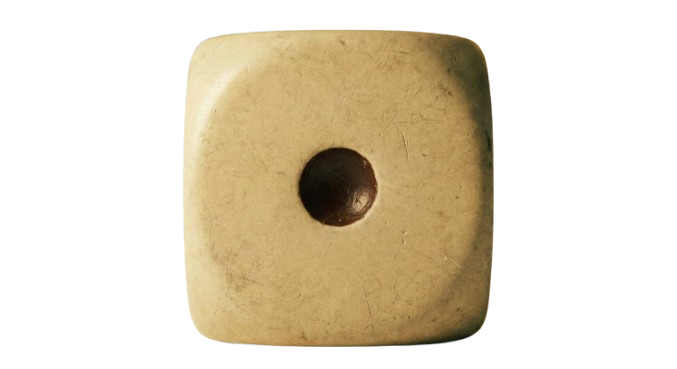
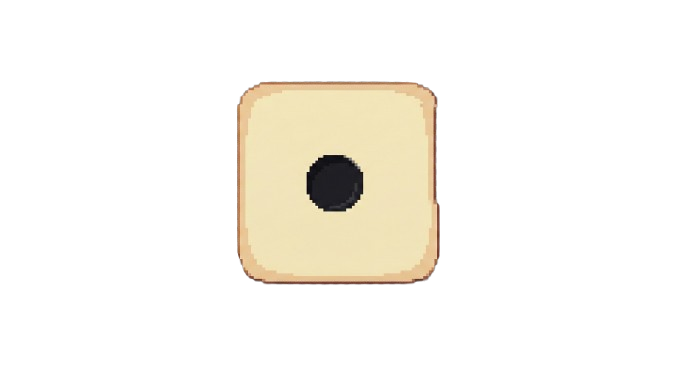
Implemented texture loading function

diff --git a/src/dice_roll.c b/src/dice_roll.c
@@ -1,58 +1,125 @@
 #include <math.h>
 #include <string.h> 
 #include <stdbool.h>
+#include <stdlib.h>
+#include <dirent.h>
+#include <sys/types.h>
+#include <sys/stat.h>
+#include <unistd.h>
 
 #include "raylib.h"
 #define RAYGUI_IMPLEMENTATION
 #include "raygui.h"
 
+
+Texture2D* load_dice_sides(const char* director);
+void unload_dice_sides(Texture2D* dices);
+void draw_layout(void);
+
+
+float dice_count = 0;
+bool auto_roll = false;
+
+
 int main(void)
 {
 	Image icon = LoadImage("asserts/icon.png");
-	Font font = LoadFont("asserts/Lato-Bold");
+	Font font = LoadFont("asserts/Lato-Bold.ttf");
+
 	InitWindow(1280, 720, "Distribution Vizualizer");
+	Texture2D* dice_sides = load_dice_sides("asserts/Dice Sides");
+	
+	Vector2 dice_image_position[6] = {{-10, 40}, {120, 40}, {460, 40}, {500, 40}, {520, 40}, {1500, 40}};
 
 	SetWindowIcon(icon);
 	SetTargetFPS(60);
 	GuiSetStyle(DEFAULT, TEXT_SIZE, 18);
 
 
-	float dice_count = 0;
-	bool auto_roll = false;
 
 	while(!WindowShouldClose())
 	{
-		BeginDrawing();
-			ClearBackground((Color){20, 20, 20, 255});
-			DrawText("The Statistics of Rolling a Dice", 420, 20, 20, LIGHTGRAY);
-			//DrawRectangleLines(20, 50, 1240, 200, DARKGRAY);
-
-			GuiGroupBox((Rectangle){20, 60, 1240, 180}, "Dice");
-			GuiGroupBox((Rectangle){20, 260, 920, 440}, "Distribution");
-
-			GuiGroupBox((Rectangle){960, 260, 300, 440}, "Controls");
-			DrawText("Number of Dice", 1000, 280, 20, LIGHTGRAY);
-							
-			GuiSlider((Rectangle){ 1000, 360, 220, 20 }, "", NULL, &dice_count, 1.0f, 6.0f);
-			DrawText(TextFormat("%i", (int)round(dice_count)), 1000, 320, 20, LIGHTGRAY);
-
-			GuiSetStyle(BUTTON, TEXT_COLOR_NORMAL, ColorToInt(BLACK));
-			GuiSetStyle(BUTTON, TEXT_COLOR_FOCUSED, ColorToInt(LIGHTGRAY));
-			GuiButton((Rectangle){ 1000, 400, 220, 60 }, "ROLL");
-
-			DrawText("Roll automatically",1000, 480, 18, LIGHTGRAY);
-			GuiCheckBox((Rectangle){ 1000, 520, 20, 20 }, "", &auto_roll);
-
-            		//GuiSlider((Rectangle){ 150, 610, 200, 20 }, "High Freq", NULL, &frequency2, 10.0f, 100.0f);
-            
-            		//GuiSlider((Rectangle){ 600, 580, 200, 20 }, "Amplitude", NULL, &amplitude1, 0.1f, 2.0f);
-            	//	GuiSlider((Rectangle){ 600, 610, 200, 20 }, "Noise Level", NULL, &noiseLevel, 0.0f, 2.0f);
+	 	BeginDrawing();
+			DrawTextureEx(dice_sides[0], dice_image_position[0],0, 0.6f, WHITE);
+			DrawTextureEx(dice_sides[1], dice_image_position[1],0, 0.6f, WHITE);
+			DrawTextureEx(dice_sides[2], dice_image_position[2],0, 0.6f, WHITE);
+                        DrawTextureEx(dice_sides[3], dice_image_position[3],0, 0.6f, WHITE);
+                        DrawTextureEx(dice_sides[4], dice_image_position[4],0, 0.6f, WHITE);
+                        DrawTextureEx(dice_sides[5], dice_image_position[5],0, 0.6f, WHITE);
+               		draw_layout();
 
 		EndDrawing();
 
 	}
+	unload_dice_sides(dice_sides);	
 	CloseWindow();
 	UnloadImage(icon);
 	UnloadFont(font);
 	return 0;
+}
+
+void draw_layout(void)
+{
+	ClearBackground((Color){20, 20, 20, 255});
+	DrawText("The Statistics of Rolling a Dice", 420, 20, 20, LIGHTGRAY);
+
+	GuiGroupBox((Rectangle){20, 60, 1240, 180}, "Dice");
+	GuiGroupBox((Rectangle){20, 260, 920, 440}, "Distribution");
+
+	GuiGroupBox((Rectangle){960, 260, 300, 440}, "Controls");
+	DrawText("Number of Dice", 1000, 280, 20, LIGHTGRAY);
+							
+	GuiSlider((Rectangle){ 1000, 360, 220, 20 }, "", NULL, &dice_count, 1.0f, 6.0f);
+	DrawText(TextFormat("%i", (int)round(dice_count)), 1000, 320, 20, LIGHTGRAY);
+
+	GuiSetStyle(BUTTON, TEXT_COLOR_NORMAL, ColorToInt(BLACK));
+	GuiSetStyle(BUTTON, TEXT_COLOR_FOCUSED, ColorToInt(LIGHTGRAY));
+	GuiButton((Rectangle){ 1000, 400, 220, 60 }, "ROLL");
+
+	DrawText("Roll automatically",1000, 480, 18, LIGHTGRAY);
+	GuiCheckBox((Rectangle){ 1000, 520, 20, 20 }, "", &auto_roll);
+
+}
+
+Texture2D* load_dice_sides(const char* dir)
+{
+	Texture2D* dice = malloc(sizeof(Texture2D)*6);
+	if(dice == NULL)
+	{
+		fprintf(stderr, "Memory Allocation failed");
+		exit(EXIT_FAILURE);
+	}
+	
+	if (chdir(dir) != 0) 
+	{
+        	fprintf(stderr, "Failed to open directory: %s\n", dir);
+        	free(dice);
+        	exit(EXIT_FAILURE);
+	}
+
+	DIR* directory = opendir(".");
+	struct dirent* entry;
+	struct stat file_stat;
+	int i;
+	while((entry = readdir(directory)) != NULL)
+	{
+		if(stat(entry->d_name, &file_stat) == 0 && S_ISREG(file_stat.st_mode))
+		{
+			i = entry->d_name[0] - '0';
+		}
+		if (i >= 1 && i <= 6)
+		{
+			dice[i-1] = LoadTexture(entry->d_name); 
+		}
+	}
+
+	closedir(directory);
+	return dice;
+
+}
+
+void unload_dice_sides(Texture2D* dice)
+{
+	for(int i = 0; i < 6; ++i) UnloadTexture(dice[i]);
+	free(dice);
 }
